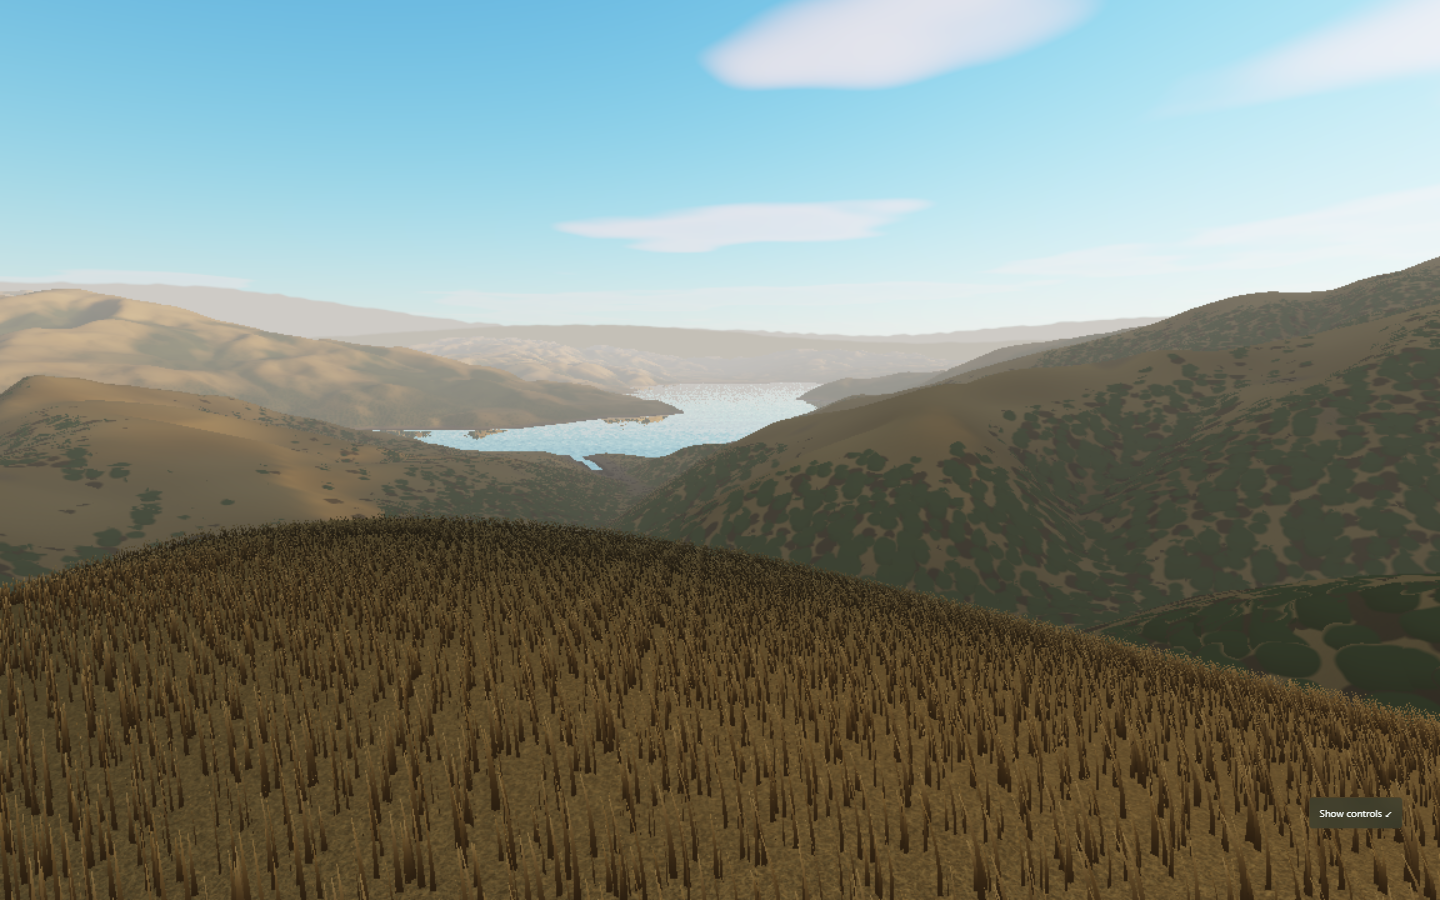
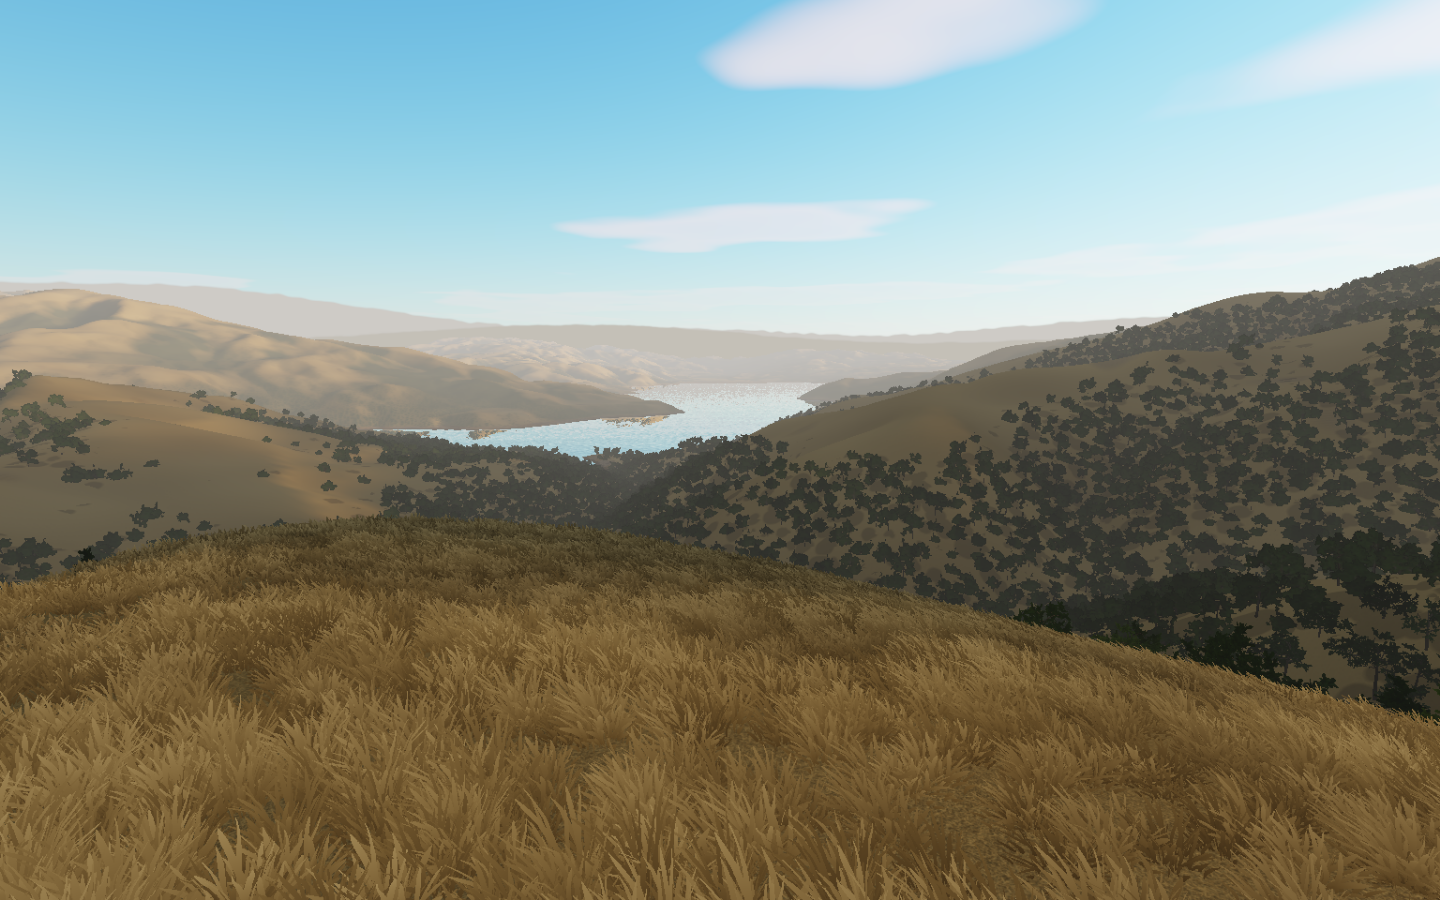
R3: Refresh README with Calaveras North ridge and Shoreline

diff --git a/docs/roadmap/tasks/R3-readme-images.md b/docs/roadmap/tasks/R3-readme-images.md
@@ -1,0 +1,15 @@
+# R3: Refresh README with Calaveras North ridge and Shoreline
+
+The user requested new README imagery, with Calaveras North ridge followed by
+Shoreline, while publishing the repository cleanup.
+
+1. Work on `task/R3`.
+2. Capture fresh images from the actual Calaveras renderer using its authored
+   North ridge and Shoreline viewpoints. Use the existing golden-hour, summer-gold
+   presentation and high quality; hide controls for the README images.
+3. Replace the README's old single preview with the two refreshed images in that order.
+   Do not change camera definitions, renderer code, data or other preview media.
+4. Visually inspect both images, confirm their dimensions and README paths, and
+   run `git diff --check`.
+5. Record results and commit with this task title. Publish the verified documentation
+   update as part of the user's requested repository resolution; verify GitHub content.

diff --git a/README.md b/README.md
@@ -17,7 +17,9 @@ Jenner has an authored place manifest and water-level adapter coverage; it does 
 an explorable scene. Supported capabilities in a manifest are not promises of current data
 availability.
 
-![Calaveras Reservoir in live 3D](previews/calaveras-overlook.png)
+![Calaveras Reservoir from North ridge in live 3D](previews/calaveras-overlook.png)
+
+![Calaveras Reservoir shallow water from Shoreline in live 3D](previews/calaveras-shoreline.png)
 
 ## Making water visible
 
